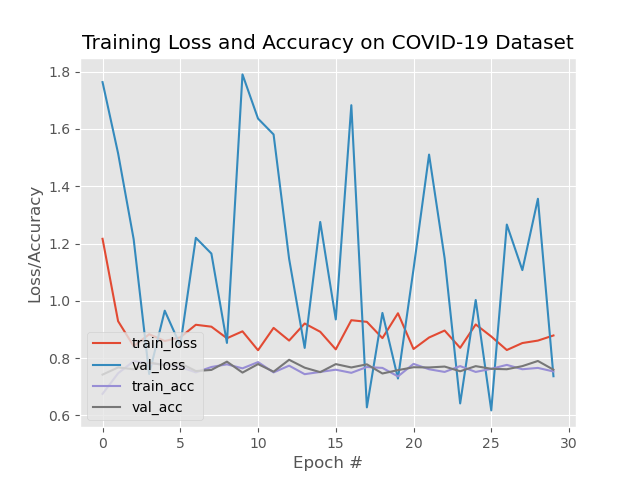
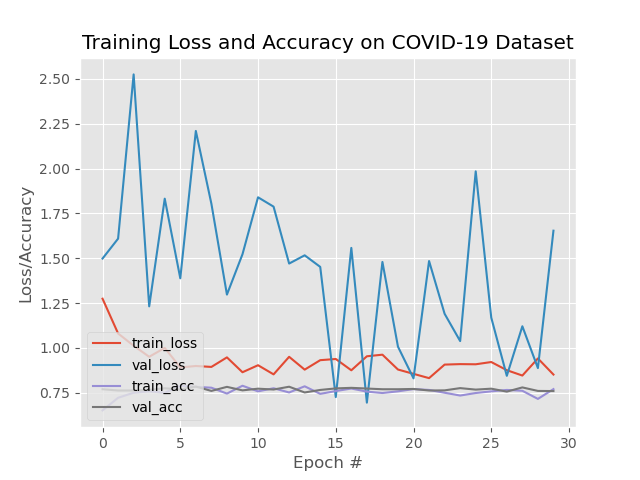
Retrained with updated covid19 dataset.

diff --git a/src/compare_model.py b/src/compare_model.py
@@ -24,10 +24,16 @@ def run_training(evaluator, no_of_classes):
 
 
 def run_evaluation(evaluator, no_of_classes, list_of_eval_models):
+    """
+    @return time taken for each
+    """
     import model_builder as mb
     from setup import models
+    import time
 
     print("CompareModel evaluation starting...")
+
+    list_of_time = []
 
     # TODO: Make a list of all the optimum models and iterate over that too.
     for index, base_model_and_params in enumerate(models):
@@ -40,6 +46,8 @@ def run_evaluation(evaluator, no_of_classes, list_of_eval_models):
         
         model = mb.construct(base_keras_model, no_of_classes)
 
+        start = time.perf_counter()
+
         if list_of_eval_models is None:
             print("Evaluating with default model.")
             evaluator.eval_with(model, model_dest, model_figures_dest)
@@ -47,12 +55,17 @@ def run_evaluation(evaluator, no_of_classes, list_of_eval_models):
             raise ValueError("Not enough models listed for evaluation.")
         else:
             evaluator.eval_with(model, model_dest, model_figures_dest, list_of_eval_models[index])
-            
+
+        end = time.perf_counter()
+
+        list_of_time.append(end-start)
+    
     print("CompareModel evaluating completed.")
+    return list_of_time
 
 
 def run(option="train", list_of_eval_models = None):
-    from setup import init, labels, EPOCHS
+    from setup import init, labels, EPOCHS, model_destinations
     from dataset import nih_image_path, nih_metadata_path, covid19_image_path, pneumonia_image_path
     from preprocessing import preprocessing
     import model_builder as mb
@@ -71,7 +84,13 @@ def run(option="train", list_of_eval_models = None):
     if option == "train":
         run_training(evaluator, no_of_classes)
     elif option == "evaluate":
-        run_evaluation(evaluator, no_of_classes, list_of_eval_models)
+        times = run_evaluation(evaluator, no_of_classes, list_of_eval_models)
+        
+        times_mapped_to_models = dict(zip(model_destinations, times))
+
+        for model, time in times_mapped_to_models.items():
+            print(model, ": ", time, "s")
+
     else:
         raise ValueError("Unrecognized run flag. Did you mean 'train' or 'evaluate'?")
 
